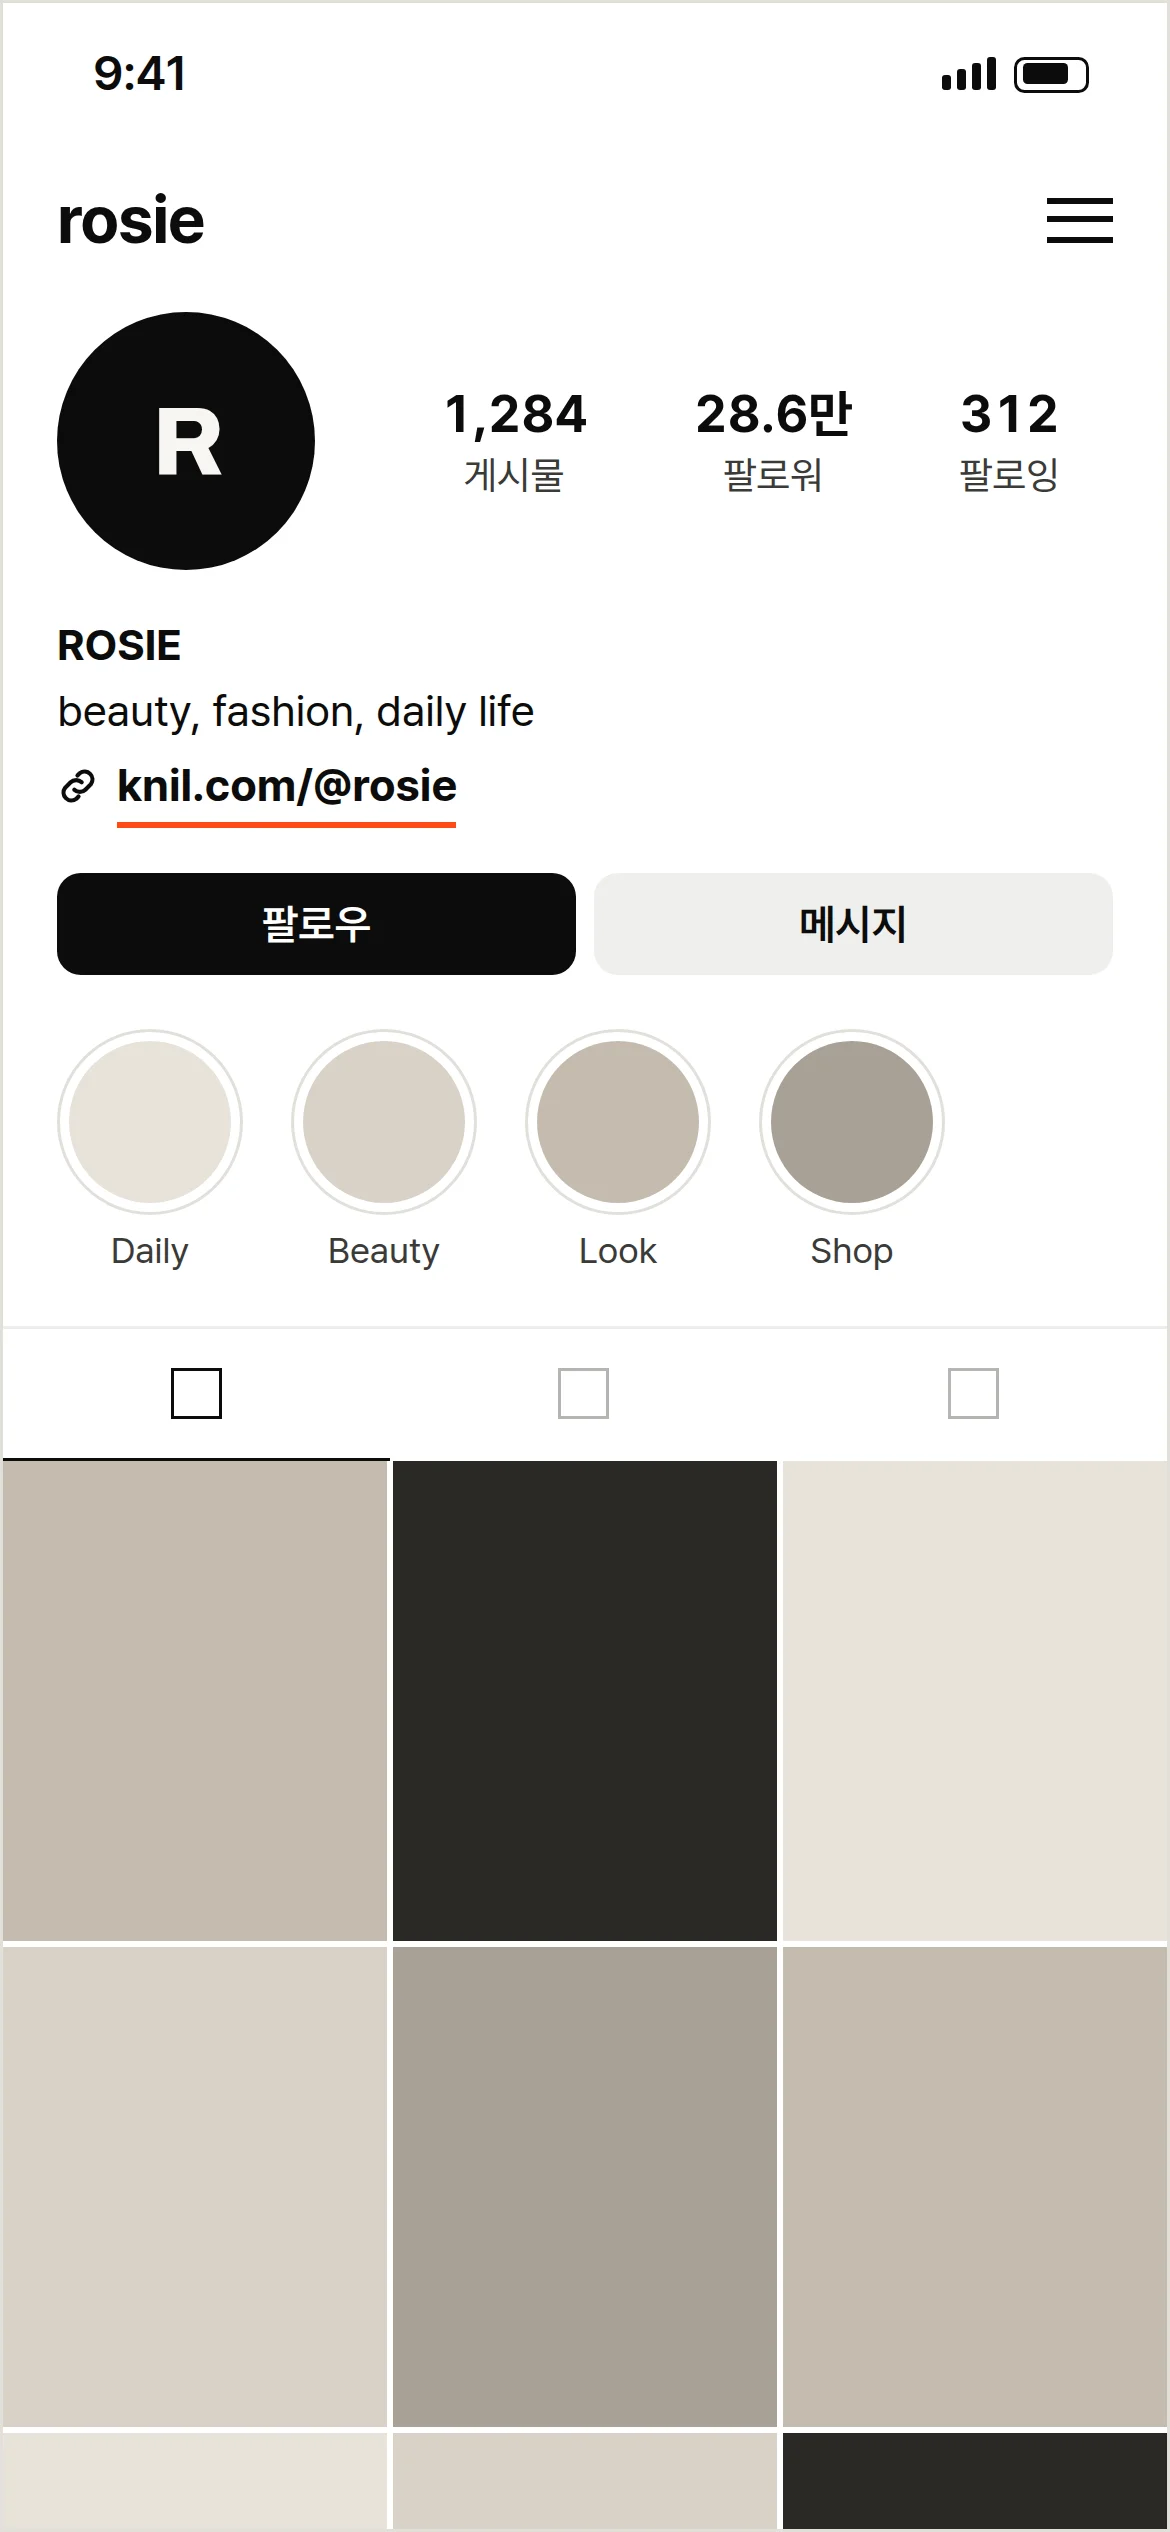
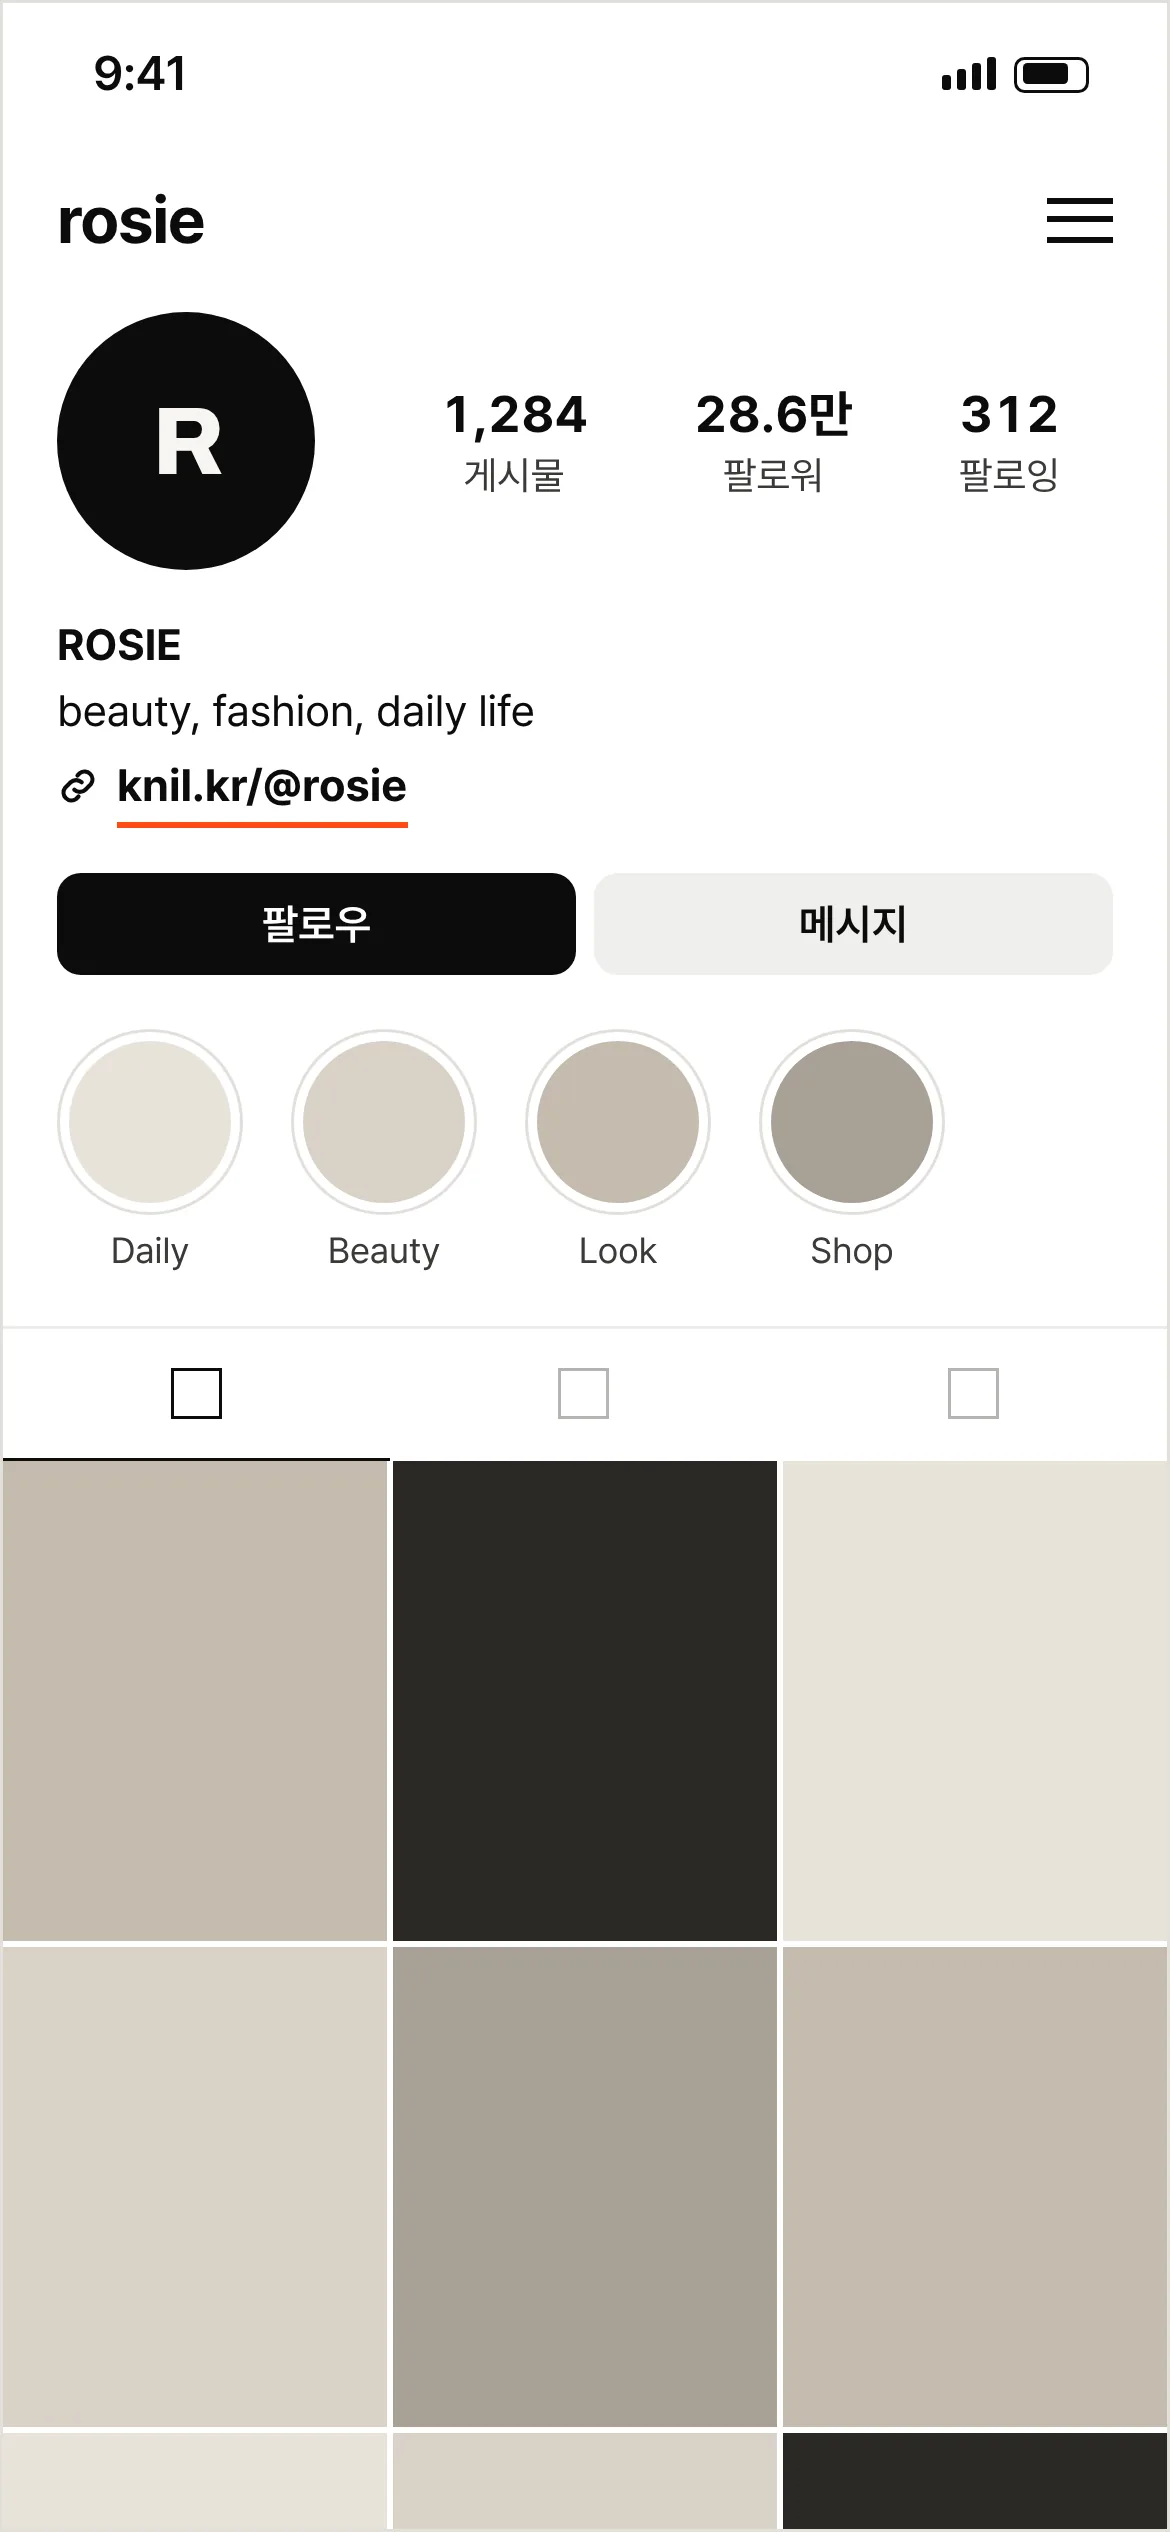
Use knil.kr as the KNIL address everywhere, re-render the visuals that show it
Claude-Session: https://claude.ai/code/session_01TFUi7etARXRQnsDzu14aD3

diff --git a/service/src/app/page.tsx b/service/src/app/page.tsx
@@ -90,7 +90,7 @@ export default function Home() {
                   <CreatorPage page={page} preview lang="ko" />
                 </PhoneFrame>
               </div>
-              <p className="mt-2 text-center text-[12px] font-semibold text-mute">knil.com/@{page.profile.handle}</p>
+              <p className="mt-2 text-center text-[12px] font-semibold text-mute">knil.kr/@{page.profile.handle}</p>
             </button>
           ))}
           <span className="w-1 shrink-0" />
@@ -159,7 +159,7 @@ export default function Home() {
   );
 }
 
-// "knil.com/@ [아이디] 바로 만들기": check the address before sign-up.
+// "knil.kr/@ [아이디] 바로 만들기": check the address before sign-up.
 function Claim({ onGo }: { onGo: (handle: string) => void }) {
   const [handle, setHandle] = useState("");
   const [problem, setProblem] = useState<string | null>(null);
@@ -191,7 +191,7 @@ function Claim({ onGo }: { onGo: (handle: string) => void }) {
       className="mt-7"
     >
       <div className="flex h-14 items-center rounded-2xl bg-surface px-5 text-ink focus-within:ring-2 focus-within:ring-ink">
-        <span className="shrink-0 font-semibold text-mute">knil.com/@</span>
+        <span className="shrink-0 font-semibold text-mute">knil.kr/@</span>
         <input
           value={handle}
           onChange={(e) => setHandle(e.target.value.toLowerCase().replace(/\s/g, ""))}

diff --git a/visual/ig.html b/visual/ig.html
@@ -31,7 +31,7 @@
 <div class="head"><div class="avatar">R</div>
   <div class="stats"><div><b>1,284</b><span>게시물</span></div><div><b>28.6만</b><span>팔로워</span></div><div><b>312</b><span>팔로잉</span></div></div></div>
 <div class="bio"><div class="name">ROSIE</div><div>beauty, fashion, daily life</div>
-  <div class="link"><svg viewBox="0 0 16 16" fill="none" stroke="#0c0c0b" stroke-width="1.6" stroke-linecap="round"><path d="M6.6 9.4a3 3 0 0 0 4.2 0l2.1-2.1a3 3 0 0 0-4.2-4.2l-.9.9"/><path d="M9.4 6.6a3 3 0 0 0-4.2 0L3.1 8.7a3 3 0 0 0 4.2 4.2l.9-.9"/></svg><span>knil.com/@rosie</span><i class="u"></i></div></div>
+  <div class="link"><svg viewBox="0 0 16 16" fill="none" stroke="#0c0c0b" stroke-width="1.6" stroke-linecap="round"><path d="M6.6 9.4a3 3 0 0 0 4.2 0l2.1-2.1a3 3 0 0 0-4.2-4.2l-.9.9"/><path d="M9.4 6.6a3 3 0 0 0-4.2 0L3.1 8.7a3 3 0 0 0 4.2 4.2l.9-.9"/></svg><span>knil.kr/@rosie</span><i class="u"></i></div></div>
 <div class="btns"><div>팔로우</div><div>메시지</div></div>
 <div class="hl"><div><i style="background-color:var(--t3)"></i>Daily</div><div><i style="background-color:var(--t1)"></i>Beauty</div><div><i style="background-color:var(--t2)"></i>Look</div><div><i style="background-color:var(--t4)"></i>Shop</div></div>
 <div class="tabs"><i><b></b></i><i><b></b></i><i><b></b></i></div>

diff --git a/src/lib/site.ts b/src/lib/site.ts
@@ -1,5 +1,5 @@
 // Site-wide configuration. Service routes (sign-in, creator pages such as
-// knil.com/@{handle}) are intentionally absent at this stage; add them under
+// knil.kr/@{handle}) are intentionally absent at this stage; add them under
 // src/app/(service) when the product launches and point SERVICE_URL there.
 export const site = {
   name: "KNIL",
@@ -9,7 +9,7 @@ export const site = {
   category: "크리에이터 멀티 링크 플랫폼",
   description:
     "링크가 사람을 어디론가 보내는 것에 집중했다면, 크닐은 링크를 반대로 바라봅니다. 크리에이터에게는 데이터, 브랜드에게는 더 정확한 선택, 팔로워에게는 더 편리한 연결. KNIL은 이 세 주체가 만나는 크리에이터 멀티 링크 플랫폼입니다.",
-  url: process.env.NEXT_PUBLIC_SITE_URL ?? "https://knil.com",
+  url: process.env.NEXT_PUBLIC_SITE_URL ?? "https://knil.kr",
   serviceUrl: null as string | null,
   locale: "ko_KR",
 } as const;

diff --git a/visual/kn.html b/visual/kn.html
@@ -42,7 +42,7 @@
 .row > span { font-size:12px; color:var(--mute); }
 </style></head><body><div class="screen">
 <div class="status"><span>9:41</span><span class="r"><span class="bars"><i style="height:5px"></i><i style="height:7px"></i><i style="height:9px"></i><i style="height:11px"></i></span><span class="bat"><i></i></span></span></div>
-<div class="browser"><span class="x"><i></i><i></i></span><div class="addr"><span>knil.com/@rosie<i></i></span></div><span></span></div>
+<div class="browser"><span class="x"><i></i><i></i></span><div class="addr"><span>knil.kr/@rosie<i></i></span></div><span></span></div>
 <div class="page">
   <div class="prof"><div class="avatar">R</div><div><h3>ROSIE</h3><p>@rosie · beauty, fashion, daily life</p></div></div>
   <div class="ch">

diff --git a/visual/rosie.html b/visual/rosie.html
@@ -142,7 +142,7 @@
           <path d="M6.6 9.4a3 3 0 0 0 4.2 0l2.1-2.1a3 3 0 0 0-4.2-4.2l-.9.9" />
           <path d="M9.4 6.6a3 3 0 0 0-4.2 0L3.1 8.7a3 3 0 0 0 4.2 4.2l.9-.9" />
         </svg>
-        <span id="igtext">knil.com/@rosie</span>
+        <span id="igtext">knil.kr/@rosie</span>
         <i class="u"></i>
       </div>
     </div>
@@ -166,7 +166,7 @@
   <p class="cap" id="kncap" style="left:856px;"><b>KNIL</b> 페이지</p>
   <section class="kn">
     <div class="kn-url" id="knurl">
-      <span class="u" id="kntext">knil.com/@rosie</span>
+      <span class="u" id="kntext">knil.kr/@rosie</span>
       <span class="mark">knil</span>
     </div>
     <div class="kn-body">

diff --git a/src/components/sections/Channels.tsx b/src/components/sections/Channels.tsx
@@ -129,7 +129,7 @@ export function Channels() {
           <div className="col-span-6 md:col-start-5 md:col-span-6 lg:col-span-5" role="img" aria-label="크리에이터 로지의 KNIL 페이지 예시">
             <div className="flex items-baseline justify-between pb-3 text-[13px] md:text-[clamp(13px,1.05vw,16px)]">
               <span data-ui className="font-medium">
-                knil.com/<span className="text-mute">@{creatorPage.handle}</span>
+                knil.kr/<span className="text-mute">@{creatorPage.handle}</span>
               </span>
               <span data-clicks className="invisible text-right whitespace-nowrap text-signal">
                 이번 주 클릭

diff --git a/src/components/sections/Screens.tsx b/src/components/sections/Screens.tsx
@@ -7,11 +7,11 @@ const base = process.env.NEXT_PUBLIC_BASE_PATH ?? "";
 const shots = [
   {
     src: `${base}/visuals/rosie-instagram.webp`,
-    alt: "가상의 크리에이터 ROSIE의 Instagram 프로필. 소개 아래에 knil.com/@rosie 링크가 있다.",
+    alt: "가상의 크리에이터 ROSIE의 Instagram 프로필. 소개 아래에 knil.kr/@rosie 링크가 있다.",
     step: "1",
     caption: (
       <>
-        Instagram 프로필에는 <span className="font-semibold text-ink">knil.com/@rosie</span> 링크 하나.
+        Instagram 프로필에는 <span className="font-semibold text-ink">knil.kr/@rosie</span> 링크 하나.
       </>
     ),
   },

diff --git a/visual/dm.html b/visual/dm.html
@@ -34,6 +34,6 @@
 <div class="msg"><div class="avatar">R</div><div class="bub">요청하신 ROSIE의 착장 정보를 보내드릴게요.</div></div>
 <div class="msg"><span class="spacer"></span><div class="card">
   <div class="img"><i style="background:var(--t2)"></i><i style="background:var(--t5)"></i><i style="background:var(--t1)"></i></div>
-  <div class="t"><b>ROSIE의 가을 데일리룩 3가지</b><span>knil.com/@rosie/look<i></i></span></div></div></div>
+  <div class="t"><b>ROSIE의 가을 데일리룩 3가지</b><span>knil.kr/@rosie/look<i></i></span></div></div></div>
 <div class="input"><span>메시지 보내기...</span></div>
 </div></body></html>

diff --git a/service/src/app/brand/page.tsx b/service/src/app/brand/page.tsx
@@ -244,7 +244,7 @@ function BrandHome({ page }: { page: Page }) {
             <Avatar name={page.profile.name} src={page.profile.avatar} size={44} />
             <span className="min-w-0 flex-1">
               <span className="block font-bold">브랜드 페이지</span>
-              <span className="block truncate text-[12px] text-ink/60">knil.com/@{page.profile.handle} · 제품, 세일 일정, 리뷰</span>
+              <span className="block truncate text-[12px] text-ink/60">knil.kr/@{page.profile.handle} · 제품, 세일 일정, 리뷰</span>
             </span>
             <Send size={17} className="shrink-0 text-mute" />
           </Link>

diff --git a/service/src/app/start/page.tsx b/service/src/app/start/page.tsx
@@ -76,7 +76,7 @@ export default function Start() {
         <label className="mt-10 block">
           <span className="text-[13px] font-semibold text-ink/70">주소</span>
           <div className="mt-1.5 flex items-center rounded-xl border border-rule bg-surface pl-3.5 focus-within:border-signal focus-within:bg-white">
-            <span className="shrink-0 py-2.5 font-semibold text-mute">knil.com/@</span>
+            <span className="shrink-0 py-2.5 font-semibold text-mute">knil.kr/@</span>
             <input
               value={handle}
               onChange={(e) => setHandle(e.target.value.toLowerCase().replace(/\s/g, ""))}

diff --git a/src/components/sections/AutoDm.tsx b/src/components/sections/AutoDm.tsx
@@ -59,7 +59,7 @@ export function AutoDm() {
           <Step n="3">KNIL이 DM과 링크를 자동으로 보냅니다.</Step>
           <img
             src={`${base}/visuals/rosie-dm.webp`}
-            alt="팔로워가 받은 ROSIE의 DM. '요청하신 ROSIE의 착장 정보를 보내드릴게요'라는 메시지와 knil.com/@rosie/look 링크가 와 있다."
+            alt="팔로워가 받은 ROSIE의 DM. '요청하신 ROSIE의 착장 정보를 보내드릴게요'라는 메시지와 knil.kr/@rosie/look 링크가 와 있다."
             width={1170}
             height={2532}
             loading="lazy"

diff --git a/service/src/lib/base.ts b/service/src/lib/base.ts
@@ -1,9 +1,9 @@
 export const BASE = process.env.NEXT_PUBLIC_BASE_PATH ?? "";
 
 // The address a creator shares. On the preview it points at this host;
-// in production it becomes knil.com/@handle.
+// in production it becomes knil.kr/@handle.
 export function publicUrl(handle: string) {
-  if (typeof window === "undefined") return `knil.com/@${handle}`;
+  if (typeof window === "undefined") return `knil.kr/@${handle}`;
   return `${location.origin}${BASE}/@${handle}`;
 }
-export const displayUrl = (handle: string) => `knil.com/@${handle}`;
+export const displayUrl = (handle: string) => `knil.kr/@${handle}`;
